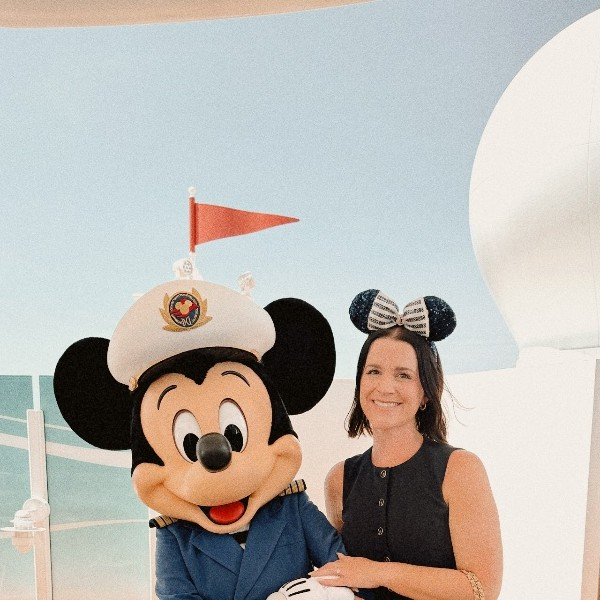
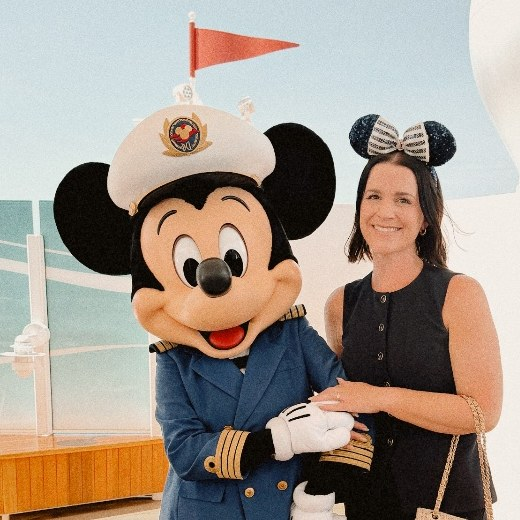
Show Amanda's full face and center Randi with Mickey.
The directory circle was clipping Amanda's chin and the top of her head, and Randi's photo still had too much sky around the two of them.

diff --git a/assets/agents-data.js b/assets/agents-data.js
@@ -98,13 +98,13 @@ window.CC_profilePath = function (agent) {
 
 /** Pre-cropped headshots for directory circles (full-body uploads stay in blob storage). */
 window.CC_AGENT_PHOTO_OVERRIDES = {
-  "amanda-carranza": "/assets/agent-photos/amanda-carranza-avatar.jpg?v=3",
+  "amanda-carranza": "/assets/agent-photos/amanda-carranza-avatar.jpg?v=4",
   "emily-schultz": "/assets/agent-photos/emily-schultz.jpg?v=7",
   "martina-yost": "/assets/agent-photos/martina-yost.jpg?v=6",
   "kim-fanning": "/assets/agent-photos/kim-fanning.jpg?v=5",
   "donna-walters": "/assets/agent-photos/donna-walters.jpg?v=5",
   "shana-matos": "/assets/agent-photos/shana-matos.jpg?v=5",
-  "randi-decap": "/assets/agent-photos/randi-decap-card.jpg?v=1",
+  "randi-decap": "/assets/agent-photos/randi-decap-card.jpg?v=2",
   "rebekah-lukins": "/assets/agent-photos/rebekah-lukins.jpg?v=2"
 };
 

diff --git a/articles/welcome-aboard-amanda.html b/articles/welcome-aboard-amanda.html
@@ -144,7 +144,7 @@
       <p class="article-meta">Published October 8, 2026 · <a href="/agents/">Travel agents</a></p>
 
       <div class="agent-feature-hero">
-        <div class="agent-feature-photo"><img src="/assets/agent-photos/amanda-carranza-avatar.jpg?v=3" alt="Amanda Carranza"></div>
+        <div class="agent-feature-photo"><img src="/assets/agent-photos/amanda-carranza-avatar.jpg?v=4" alt="Amanda Carranza"></div>
         <div>
           <h2>Amanda Carranza</h2>
           <p class="meta">Travel B and V · Green Valley, AZ</p>

diff --git a/assets/articles-data.js b/assets/articles-data.js
@@ -16,7 +16,7 @@
         "Meet Amanda Carranza of Travel B and V — fee-free Disney cruise planning for families, first-timers, large groups, Alaska, and Europe.",
       date: "2026-10-08",
       url: "/articles/welcome-aboard-amanda.html",
-      image: "/assets/agent-photos/amanda-carranza-card.jpg?v=3",
+      image: "/assets/agent-photos/amanda-carranza-card.jpg?v=4",
       imageAlt: "Amanda Carranza",
     },
     {

diff --git a/index.html b/index.html
@@ -789,7 +789,7 @@
     }
   })();
 </script>
-<script src="/assets/articles-data.js?v=20261008c"></script>
+<script src="/assets/articles-data.js?v=20261008d"></script>
 <script>
   (function(){
     var slides = (window.CC_featuredCarousel && window.CC_featuredCarousel()) || [];

diff --git a/articles/index.html b/articles/index.html
@@ -123,7 +123,7 @@
   </section>
 </main>
 
-<script src="/assets/articles-data.js?v=20261008c"></script>
+<script src="/assets/articles-data.js?v=20261008d"></script>
 <script>
 (function(){
   var btn=document.querySelector('.nav-toggle');

diff --git a/agents/index.html b/agents/index.html
@@ -133,7 +133,7 @@
   </section>
 </main>
 
-<script src="/assets/agents-data.js?v=20261008d"></script>
+<script src="/assets/agents-data.js?v=20261008e"></script>
 <script src="/assets/community.js"></script>
 <script>
   (function(){

diff --git a/agents/request.html b/agents/request.html
@@ -205,7 +205,7 @@
   </form>
 </div>
 
-<script src="/assets/agents-data.js?v=20261008d"></script>
+<script src="/assets/agents-data.js?v=20261008e"></script>
 <script src="/assets/community.js"></script>
 <script>
   (function(){

diff --git a/agents/profile.html b/agents/profile.html
@@ -130,7 +130,7 @@
   </div>
 </div>
 
-<script src="/assets/agents-data.js?v=20261008d"></script>
+<script src="/assets/agents-data.js?v=20261008e"></script>
 <script src="/assets/community.js"></script>
 <script>
 (function () {
